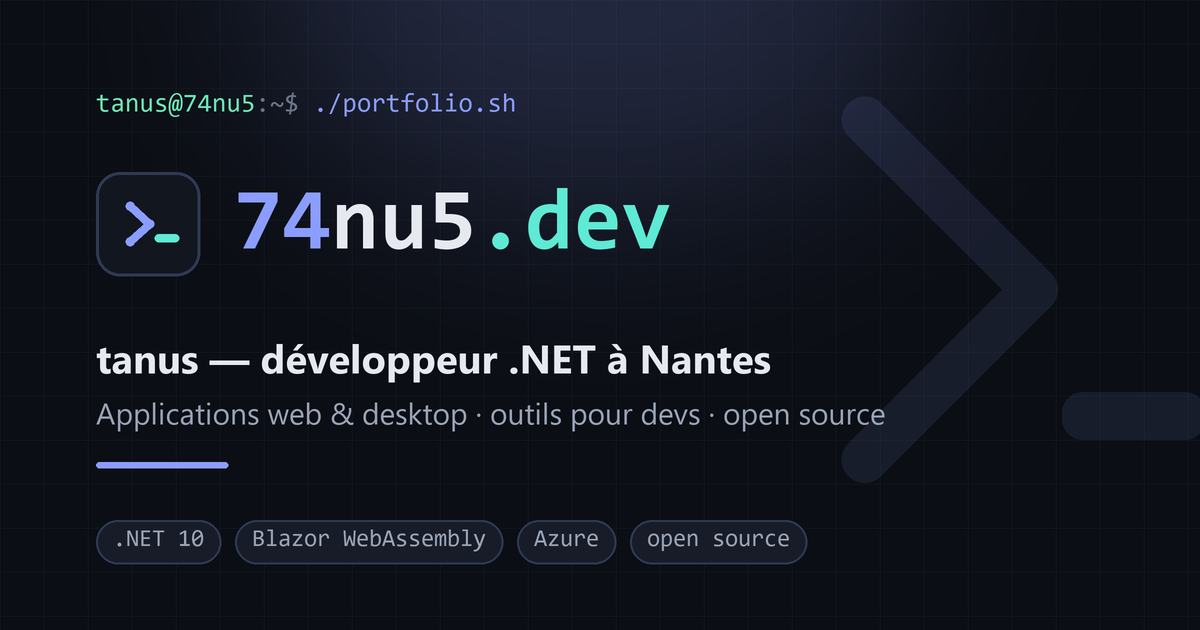
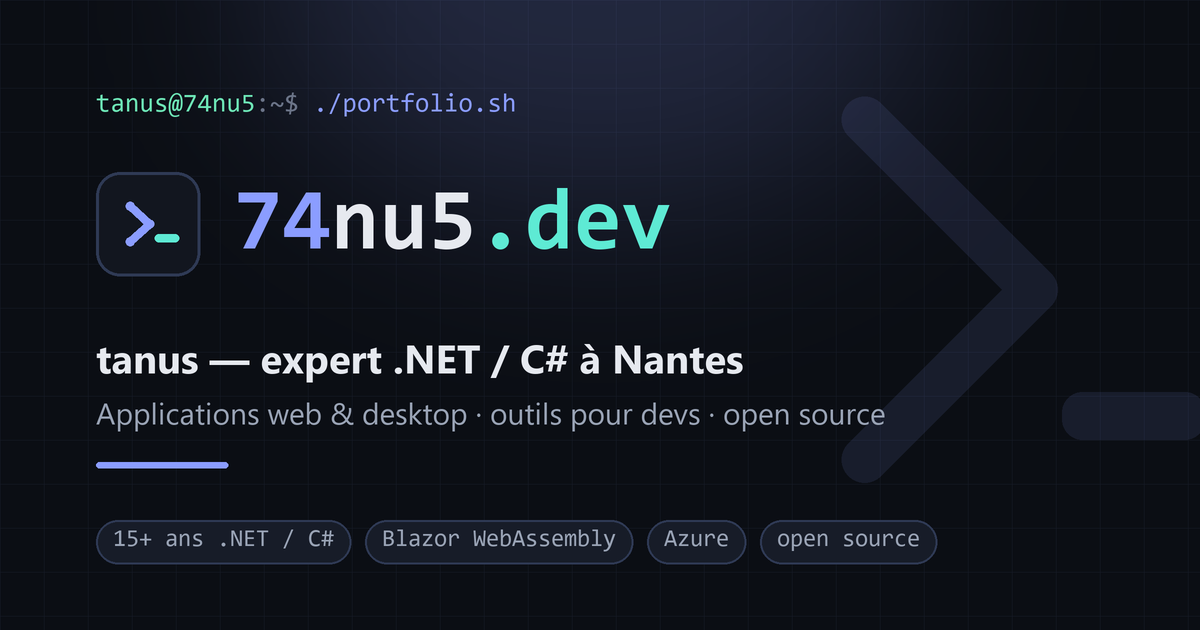
Reflect 15+ years of .NET / C# expertise
- Hero eyebrow, role rotation and description now lead with senior
  .NET / C# expertise (15+ years)
- Stats: replace followers with "15+ years with .NET / C#"
- SEO/OG descriptions updated accordingly
- Regenerate OG image: "expert .NET / C#" tagline + "15+ ans" chip

Changed region(s): [[0.0925, 0.8143, 0.7708, 0.9048], [0.2158, 0.5429, 0.6475, 0.6032]]

diff --git a/src/Site/wwwroot/index.html b/src/Site/wwwroot/index.html
@@ -5,14 +5,14 @@
     <meta charset="utf-8" />
     <meta name="viewport" content="width=device-width, initial-scale=1.0" />
     <title>tanus · 74nu5.dev</title>
-    <meta name="description" content="tanus (74nu5) — développeur .NET à Nantes. Applications, outils open source et projets. Portfolio Blazor WebAssembly." />
+    <meta name="description" content="tanus (74nu5) — expert .NET / C# à Nantes, 15+ ans d'expérience. Applications web & desktop, outils pour développeurs et open source. Portfolio Blazor WebAssembly." />
     <meta name="author" content="tanus" />
     <meta name="theme-color" content="#0b0e14" />
 
     <!-- Open Graph / social -->
     <meta property="og:type" content="website" />
     <meta property="og:title" content="tanus · 74nu5.dev" />
-    <meta property="og:description" content="Développeur .NET à Nantes — applications, outils open source et projets." />
+    <meta property="og:description" content="Expert .NET / C# à Nantes · 15+ ans d'expérience — applications web & desktop, outils devs et open source." />
     <meta property="og:url" content="https://74nu5.dev" />
     <meta property="og:image" content="https://74nu5.dev/og-image.png" />
     <meta property="og:image:width" content="1200" />

diff --git a/src/Site/Services/LocalizationService.cs b/src/Site/Services/LocalizationService.cs
@@ -58,17 +58,17 @@ public sealed class LocalizationService(IJSRuntime js)
         ["nav.contact"] = ("contact", "contact"),
 
         // Hero
-        ["hero.eyebrow"] = ("// développeur .NET · Nantes", "// .NET developer · Nantes"),
+        ["hero.eyebrow"] = ("// expert .NET / C# · Nantes", "// .NET / C# expert · Nantes"),
         ["hero.hello"] = ("Salut, moi c'est", "Hi, I'm"),
         ["hero.desc"] = (
-            "Je conçois des applications web et desktop en .NET, des outils pour développeurs et quelques expérimentations. Voici un aperçu de ce que je construis — en ligne et open source.",
-            "I build web & desktop apps in .NET, developer tooling and a few experiments. Here's a look at what I make — live and open source."),
+            "Développeur .NET / C# depuis plus de 15 ans. Je conçois des applications web et desktop, des outils pour développeurs et des architectures robustes — en ligne et open source.",
+            "Building with .NET / C# for 15+ years. I design web & desktop apps, developer tooling and solid architectures — live and open source."),
         ["hero.cta_projects"] = ("Explorer les projets", "Explore projects"),
         ["hero.cta_github"] = ("GitHub", "GitHub"),
 
         // Stats
         ["stats.repos"] = ("dépôts publics", "public repos"),
-        ["stats.followers"] = ("abonnés", "followers"),
+        ["stats.experience"] = ("ans avec .NET / C#", "years with .NET / C#"),
         ["stats.apps"] = ("apps en ligne", "live apps"),
         ["stats.stars"] = ("étoiles cumulées", "total stars"),
 

diff --git a/src/Site/Data/SiteContent.cs b/src/Site/Data/SiteContent.cs
@@ -35,8 +35,8 @@ public static class SiteContent
 
     /// <summary>Rôles défilants dans le hero, par langue.</summary>
     public static string[] Roles(bool fr) => fr
-        ? ["développeur .NET", "Blazor & Web", "outils pour devs", "applications desktop", "open source"]
-        : [".NET developer", "Blazor & Web", "developer tooling", "desktop apps", "open source"];
+        ? ["expert .NET / C#", "15 ans de .NET", "architecte logiciel", "Blazor & Web", "outils pour devs", "open source"]
+        : [".NET / C# expert", "15+ years of .NET", "software architect", "Blazor & Web", "developer tooling", "open source"];
 
     public static readonly LiveApp[] Apps =
     [